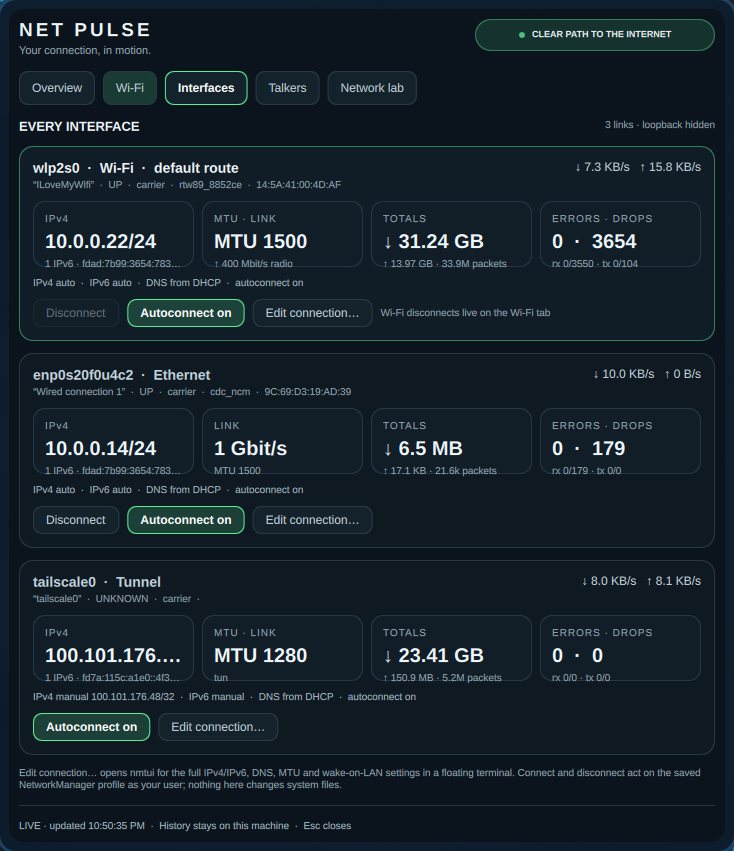
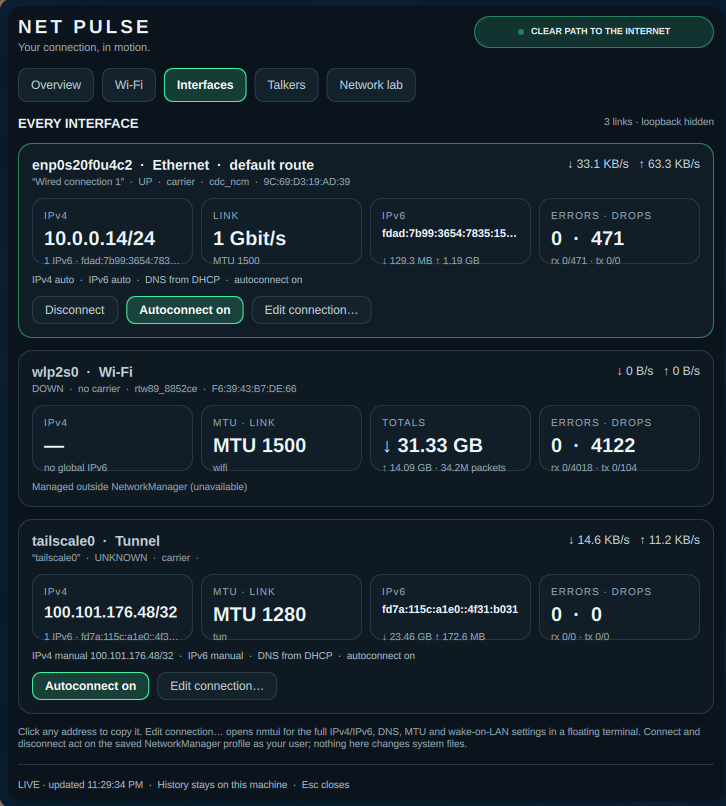
Copy any address to the clipboard, and stop truncating long ones
Clicking an address anywhere in the dashboard now copies it: the hero
address tile, each hop of the path to the internet, an interface's IPv4
and IPv6, a resolver row, and a route's next hop. The card highlights and
shows a copy glyph on hover, and the status line names what it copied.
The value goes to wl-copy as an argument, never through a shell string.

Card values shrink to fit before eliding, so a Tailscale address reads in
full instead of stopping at "100.101.176....". Each interface also gains
its own IPv6 card, elided in the middle so both ends stay readable, with
the byte totals moving to that card's hint line.

Verified live: the copy path was exercised end to end against the running
widget and the clipboard took the value; the interfaces screenshot is a
fresh capture showing the full Tailscale address.

Claude-Session: https://claude.ai/code/session_01SR25TvLHowZze25b5XFPtJ

diff --git a/Panel.qml b/Panel.qml
@@ -251,6 +251,7 @@ Panel {
         property string hint:''
         property string copyText:''
         property string copyWhat:''
+        property int elideMode: Text.ElideRight
         readonly property bool copyable: copyText !== ''
         radius:12
         color:stat.copyable&&statArea.containsMouse?'#17262f':'#111e28'
@@ -259,8 +260,8 @@ Panel {
         Column {anchors.fill:parent;anchors.margins:12;spacing:5
             Label{text:stat.label;font.pixelSize:10;font.letterSpacing:1}
             // Long addresses shrink to fit rather than losing their last octets.
-            Heading{text:stat.value;font.pixelSize:20;width:parent.width;elide:Text.ElideRight
-                fontSizeMode:Text.HorizontalFit;minimumPixelSize:11}
+            Heading{text:stat.value;font.pixelSize:20;width:parent.width;elide:stat.elideMode
+                fontSizeMode:Text.HorizontalFit;minimumPixelSize:10}
             Label{text:stat.hint;font.pixelSize:10;width:parent.width;elide:Text.ElideRight}
         }
         Text{visible:stat.copyable&&statArea.containsMouse;text:'⧉';color:root.tint;font.pixelSize:12
@@ -524,7 +525,8 @@ Panel {
                                     Stat{width:(parent.width-24)/4;height:66;label:(card.modelData.addrs6||[]).length?'IPv6':'TOTALS'
                                         value:(card.modelData.addrs6||[]).length?Model.bare(card.modelData.addrs6[0]):'↓ '+Model.size(card.modelData.stats.rx)
                                         hint:(card.modelData.addrs6||[]).length?'↓ '+Model.size(card.modelData.stats.rx)+' ↑ '+Model.size(card.modelData.stats.tx):'↑ '+Model.size(card.modelData.stats.tx)+' · '+Model.count(card.modelData.stats.rxPackets+card.modelData.stats.txPackets)+' packets'
-                                        copyText:(card.modelData.addrs6||[]).length?Model.bare(card.modelData.addrs6[0]):'';copyWhat:card.modelData.name+' IPv6'}
+                                        copyText:(card.modelData.addrs6||[]).length?Model.bare(card.modelData.addrs6[0]):'';copyWhat:card.modelData.name+' IPv6'
+                                        elideMode:(card.modelData.addrs6||[]).length?Text.ElideMiddle:Text.ElideRight}
                                     Stat{width:(parent.width-24)/4;height:66;label:'ERRORS · DROPS';value:Model.count(card.modelData.stats.rxErrors+card.modelData.stats.txErrors)+'  ·  '+Model.count(card.modelData.stats.rxDropped+card.modelData.stats.txDropped);hint:'rx '+card.modelData.stats.rxErrors+'/'+card.modelData.stats.rxDropped+' · tx '+card.modelData.stats.txErrors+'/'+card.modelData.stats.txDropped}
                                 }
                                 Label{visible:card.managed;width:parent.width;elide:Text.ElideRight;font.pixelSize:10;color:'#a4b9c3'
